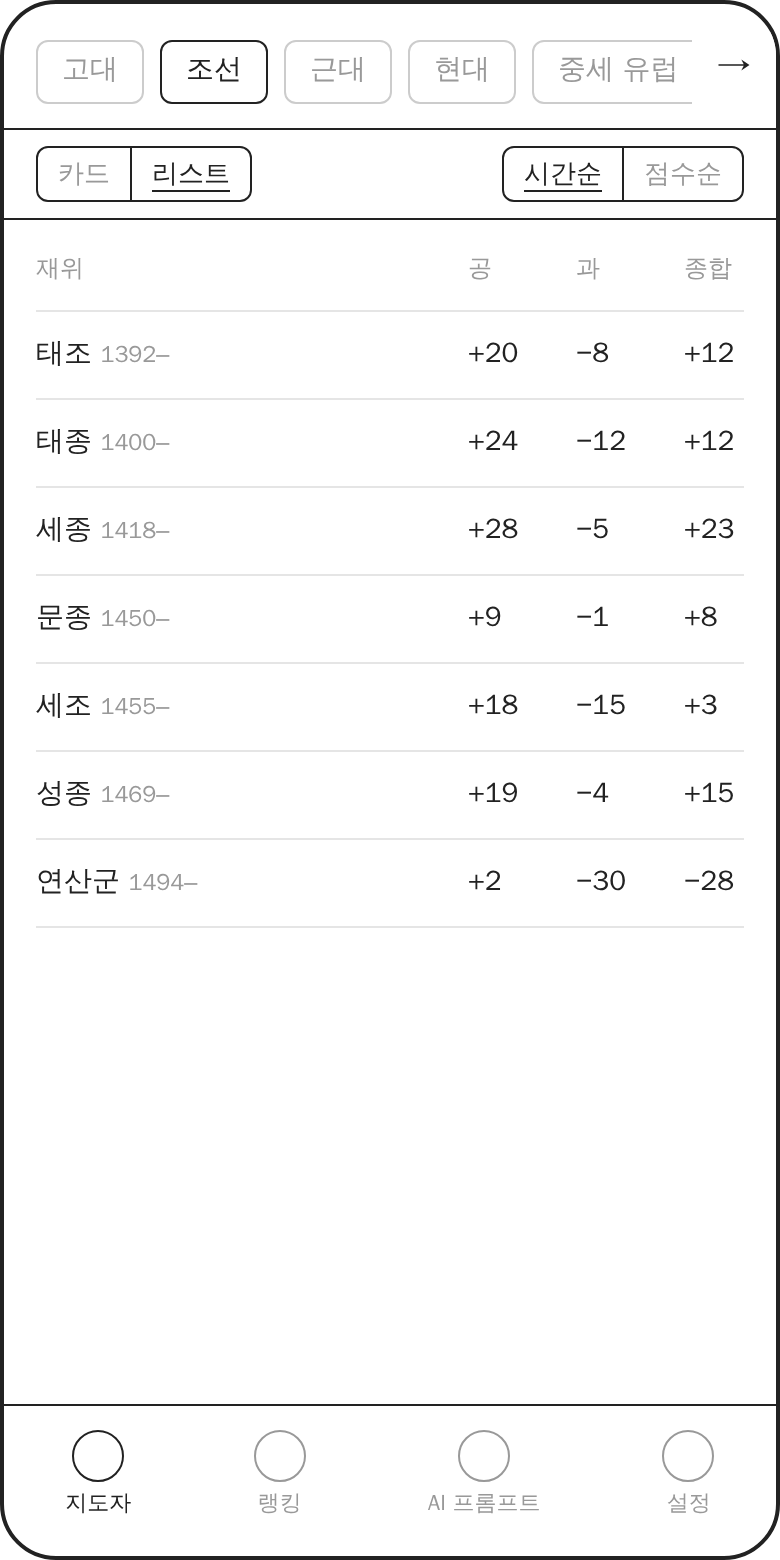
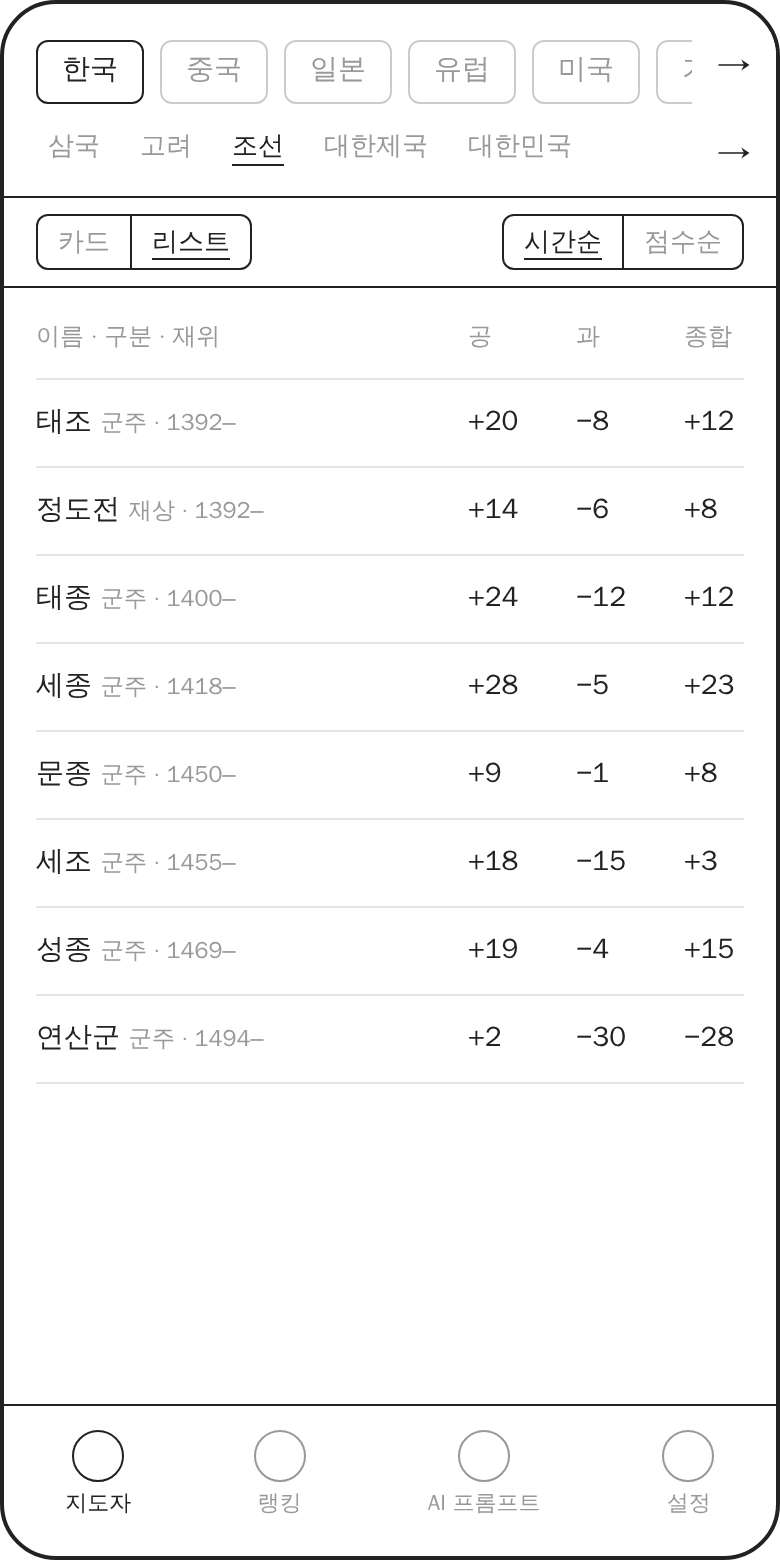
Add two-level country/dynasty tabs and leader role badges
Claude-Session: https://claude.ai/code/session_018d411kTBLTazJuieQGaakd

diff --git a/mockups/mobile.html b/mockups/mobile.html
@@ -19,9 +19,12 @@
   .arrow { position: absolute; right: 0; padding: 6px 12px; background: #fff; font-size: 18px; }
 
   /* 시대 탭 */
-  .eras { display: flex; gap: 8px; padding: 18px 0 12px 16px; white-space: nowrap; overflow: hidden; }
+  .eras { display: flex; gap: 8px; padding: 18px 0 8px 16px; white-space: nowrap; overflow: hidden; }
   .era { border: 1.5px solid #ccc; color: #999; border-radius: 6px; padding: 6px 12px; font-size: 14px; }
   .era.on { border-color: #222; color: #222; }
+  .eras.sub { padding-top: 0; padding-bottom: 12px; }
+  .eras.sub .era { border: none; padding: 4px 6px; font-size: 13px; }
+  .eras.sub .era.on { text-decoration: underline; text-underline-offset: 5px; }
 
   /* 보기/정렬 툴바 */
   .tools { display: flex; align-items: center; gap: 8px; padding: 8px 16px; border-top: 1.5px solid #222; border-bottom: 1.5px solid #222; font-size: 13px; }
@@ -69,8 +72,10 @@
 
 <!-- 06 지도자 · 카드 보기 -->
 <div class="phone" data-tab="leader" data-name="01-leader-card">
-  <div class="eras"><span class="era">고대</span><span class="era on">조선</span><span class="era">근대</span><span class="era">현대</span><span class="era">중세 유럽</span></div>
+  <div class="eras"><span class="era on">한국</span><span class="era">중국</span><span class="era">일본</span><span class="era">유럽</span><span class="era">미국</span><span class="era">기타</span></div>
   <span class="arrow" style="top:14px">→</span>
+  <div class="eras sub"><span class="era">삼국</span><span class="era">고려</span><span class="era on">조선</span><span class="era">대한제국</span><span class="era">대한민국</span></div>
+  <span class="arrow" style="top:58px">→</span>
   <div class="tools">
     <div class="seg"><span class="on">카드</span><span>리스트</span></div>
     <span class="sp"></span>
@@ -79,7 +84,7 @@
   <div class="track">
     <div class="card">
       <div class="name">세종</div>
-      <div class="ai">종합 +23</div>
+      <div class="ai"><span class="muted">군주</span> &nbsp;종합 +23</div>
       <div class="cols">
         <div class="col">
           <div class="head">공 +28</div>
@@ -95,29 +100,32 @@
         </div>
       </div>
     </div>
-    <div class="card"><div class="name">문종</div></div>
+    <div class="card"><div class="name">문종</div><div class="ai"><span class="muted">군주</span></div></div>
   </div>
-  <span class="arrow" style="top:460px">→</span>
+  <span class="arrow" style="top:500px">→</span>
 </div>
 
 <!-- 07 지도자 · 리스트 보기 -->
 <div class="phone" data-tab="leader" data-name="02-leader-list">
-  <div class="eras"><span class="era">고대</span><span class="era on">조선</span><span class="era">근대</span><span class="era">현대</span><span class="era">중세 유럽</span></div>
+  <div class="eras"><span class="era on">한국</span><span class="era">중국</span><span class="era">일본</span><span class="era">유럽</span><span class="era">미국</span><span class="era">기타</span></div>
   <span class="arrow" style="top:14px">→</span>
+  <div class="eras sub"><span class="era">삼국</span><span class="era">고려</span><span class="era on">조선</span><span class="era">대한제국</span><span class="era">대한민국</span></div>
+  <span class="arrow" style="top:58px">→</span>
   <div class="tools">
     <div class="seg"><span>카드</span><span class="on">리스트</span></div>
     <span class="sp"></span>
     <div class="seg"><span class="on">시간순</span><span>점수순</span></div>
   </div>
   <div class="body" style="gap:0;padding-top:4px">
-    <div class="li muted" style="font-size:12px"><span class="sp">재위</span><span style="width:44px">공</span><span style="width:44px">과</span><span style="width:30px">종합</span></div>
-    <div class="li"><span class="sp">태조 <small class="muted">1392–</small></span><span style="width:44px">+20</span><span style="width:44px">−8</span><span style="width:30px">+12</span></div>
-    <div class="li"><span class="sp">태종 <small class="muted">1400–</small></span><span style="width:44px">+24</span><span style="width:44px">−12</span><span style="width:30px">+12</span></div>
-    <div class="li"><span class="sp">세종 <small class="muted">1418–</small></span><span style="width:44px">+28</span><span style="width:44px">−5</span><span style="width:30px">+23</span></div>
-    <div class="li"><span class="sp">문종 <small class="muted">1450–</small></span><span style="width:44px">+9</span><span style="width:44px">−1</span><span style="width:30px">+8</span></div>
-    <div class="li"><span class="sp">세조 <small class="muted">1455–</small></span><span style="width:44px">+18</span><span style="width:44px">−15</span><span style="width:30px">+3</span></div>
-    <div class="li"><span class="sp">성종 <small class="muted">1469–</small></span><span style="width:44px">+19</span><span style="width:44px">−4</span><span style="width:30px">+15</span></div>
-    <div class="li"><span class="sp">연산군 <small class="muted">1494–</small></span><span style="width:44px">+2</span><span style="width:44px">−30</span><span style="width:30px">−28</span></div>
+    <div class="li muted" style="font-size:12px"><span class="sp">이름 · 구분 · 재위</span><span style="width:44px">공</span><span style="width:44px">과</span><span style="width:30px">종합</span></div>
+    <div class="li"><span class="sp">태조 <small class="muted">군주 · 1392–</small></span><span style="width:44px">+20</span><span style="width:44px">−8</span><span style="width:30px">+12</span></div>
+    <div class="li"><span class="sp">정도전 <small class="muted">재상 · 1392–</small></span><span style="width:44px">+14</span><span style="width:44px">−6</span><span style="width:30px">+8</span></div>
+    <div class="li"><span class="sp">태종 <small class="muted">군주 · 1400–</small></span><span style="width:44px">+24</span><span style="width:44px">−12</span><span style="width:30px">+12</span></div>
+    <div class="li"><span class="sp">세종 <small class="muted">군주 · 1418–</small></span><span style="width:44px">+28</span><span style="width:44px">−5</span><span style="width:30px">+23</span></div>
+    <div class="li"><span class="sp">문종 <small class="muted">군주 · 1450–</small></span><span style="width:44px">+9</span><span style="width:44px">−1</span><span style="width:30px">+8</span></div>
+    <div class="li"><span class="sp">세조 <small class="muted">군주 · 1455–</small></span><span style="width:44px">+18</span><span style="width:44px">−15</span><span style="width:30px">+3</span></div>
+    <div class="li"><span class="sp">성종 <small class="muted">군주 · 1469–</small></span><span style="width:44px">+19</span><span style="width:44px">−4</span><span style="width:30px">+15</span></div>
+    <div class="li"><span class="sp">연산군 <small class="muted">군주 · 1494–</small></span><span style="width:44px">+2</span><span style="width:44px">−30</span><span style="width:30px">−28</span></div>
   </div>
 </div>
 
@@ -125,19 +133,21 @@
 <div class="phone" data-tab="rank" data-name="03-ranking">
   <div class="title">랭킹</div>
   <div class="tools">
-    <div class="box" style="padding:4px 10px">전체 시대 ▾</div>
+    <div class="box" style="padding:4px 10px">전체 국가 ▾</div>
+    <div class="box" style="padding:4px 10px">전체 구분 ▾</div>
     <span class="sp"></span>
     <span class="muted">종합점수순</span>
   </div>
   <div class="body" style="gap:0;padding-top:4px">
-    <div class="li"><span class="n">1</span><span class="sp">세종 <small class="muted">조선</small></span><span>+23</span></div>
-    <div class="li"><span class="n">2</span><span class="sp">성종 <small class="muted">조선</small></span><span>+15</span></div>
-    <div class="li"><span class="n">3</span><span class="sp">지도자 B <small class="muted">시대</small></span><span>+14</span></div>
-    <div class="li"><span class="n">4</span><span class="sp">태종 <small class="muted">조선</small></span><span>+12</span></div>
-    <div class="li"><span class="n">5</span><span class="sp">태조 <small class="muted">조선</small></span><span>+12</span></div>
-    <div class="li"><span class="n">6</span><span class="sp">문종 <small class="muted">조선</small></span><span>+8</span></div>
-    <div class="li"><span class="n">7</span><span class="sp">세조 <small class="muted">조선</small></span><span>+3</span></div>
-    <div class="li"><span class="n">8</span><span class="sp">연산군 <small class="muted">조선</small></span><span>−28</span></div>
+    <div class="li"><span class="n">1</span><span class="sp">세종 <small class="muted">군주 · 조선</small></span><span>+23</span></div>
+    <div class="li"><span class="n">2</span><span class="sp">성종 <small class="muted">군주 · 조선</small></span><span>+15</span></div>
+    <div class="li"><span class="n">3</span><span class="sp">지도자 B <small class="muted">대통령 · 미국</small></span><span>+14</span></div>
+    <div class="li"><span class="n">4</span><span class="sp">태종 <small class="muted">군주 · 조선</small></span><span>+12</span></div>
+    <div class="li"><span class="n">5</span><span class="sp">태조 <small class="muted">군주 · 조선</small></span><span>+12</span></div>
+    <div class="li"><span class="n">6</span><span class="sp">문종 <small class="muted">군주 · 조선</small></span><span>+8</span></div>
+    <div class="li"><span class="n">7</span><span class="sp">세조 <small class="muted">군주 · 조선</small></span><span>+3</span></div>
+    <div class="li"><span class="n">8</span><span class="sp">연산군 <small class="muted">군주 · 조선</small></span><span>−28</span></div>
+    <div class="li"><span class="n">9</span><span class="sp">이완용 <small class="muted">총리대신 · 대한제국</small></span><span>−41</span></div>
   </div>
 </div>
 

diff --git a/SPEC.md b/SPEC.md
@@ -7,7 +7,7 @@
 
 | 항목 | 결정 |
 | --- | --- |
-| 평가 대상 | 역사 속 군주 ~ 근현대 국가 지도자 |
+| 평가 대상 | 최고 지도자(군주·대통령·총리·실권자) + 주요 권력자(재상·장군 등). 시트 `구분` 칸으로 표시, 랭킹에서 구분 필터 |
 | 스택 | Next.js 풀스택 |
 | 데이터 저장소 | Google Sheets (DB처럼 사용), 관리자만 입력 |
 | 시트 쓰기 | 서비스 계정으로 앱이 직접 기록 |
@@ -22,17 +22,17 @@
 
 하단 탭: 지도자 / 랭킹 / AI 프롬프트 / 설정
 
-1. **지도자** — 상단 시대 탭(좌우 스와이프)
+1. **지도자** — 상단 2단 탭(좌우 스와이프): 1단 국가·지역(한국/중국/일본/유럽/미국/기타), 2단 왕조·시대(1단에 따라 바뀜, 시트에서 자동 생성)
    - 보기 전환: 카드 / 리스트, 정렬: 시간순 / 점수순
-   - 카드 보기: 지도자 카드 좌우 스와이프. 이름, 그 밑에 종합점수, 공(+합계) / 과(−합계) 두 칸에 사건 목록
+   - 카드 보기: 지도자 카드 좌우 스와이프. 이름, 그 밑에 구분(군주 등)과 종합점수, 공(+합계) / 과(−합계) 두 칸에 사건 목록
    - 리스트 보기: 해당 시대 지도자 목록 (공, 과, 종합)
-2. **랭킹** — 시대 필터, 종합점수순
+2. **랭킹** — 국가 필터, 구분 필터, 종합점수순
 3. **AI 프롬프트** — 지도자 선택, 기준 칩(가중치) + 자유 입력 → 프롬프트 복사 → 응답 붙여넣기 → 기본 대비 결과 (저장 안 함)
 4. **설정** — 관리자 비밀번호 → 지도자 선택 → 채점 프롬프트 복사 → 응답 붙여넣기 → 시트에 저장
 
 ## 시트 구조 (초안)
 
-- `leaders`: id, 이름, 국가, 시대, 재위/재임 기간, 공합계, 과합계, 종합점수, 총평, 채점일
+- `leaders`: id, 이름, 국가, 왕조/시대, 구분(군주·대통령·총리·재상·장군…), 재위/재임 기간, 공합계, 과합계, 종합점수, 총평, 채점일
 - `events`: id, leader_id, 연도, 제목, 설명, 분야, 점수(-10~10), 점수근거
 
 ## AI 응답 JSON 형식 (초안)
